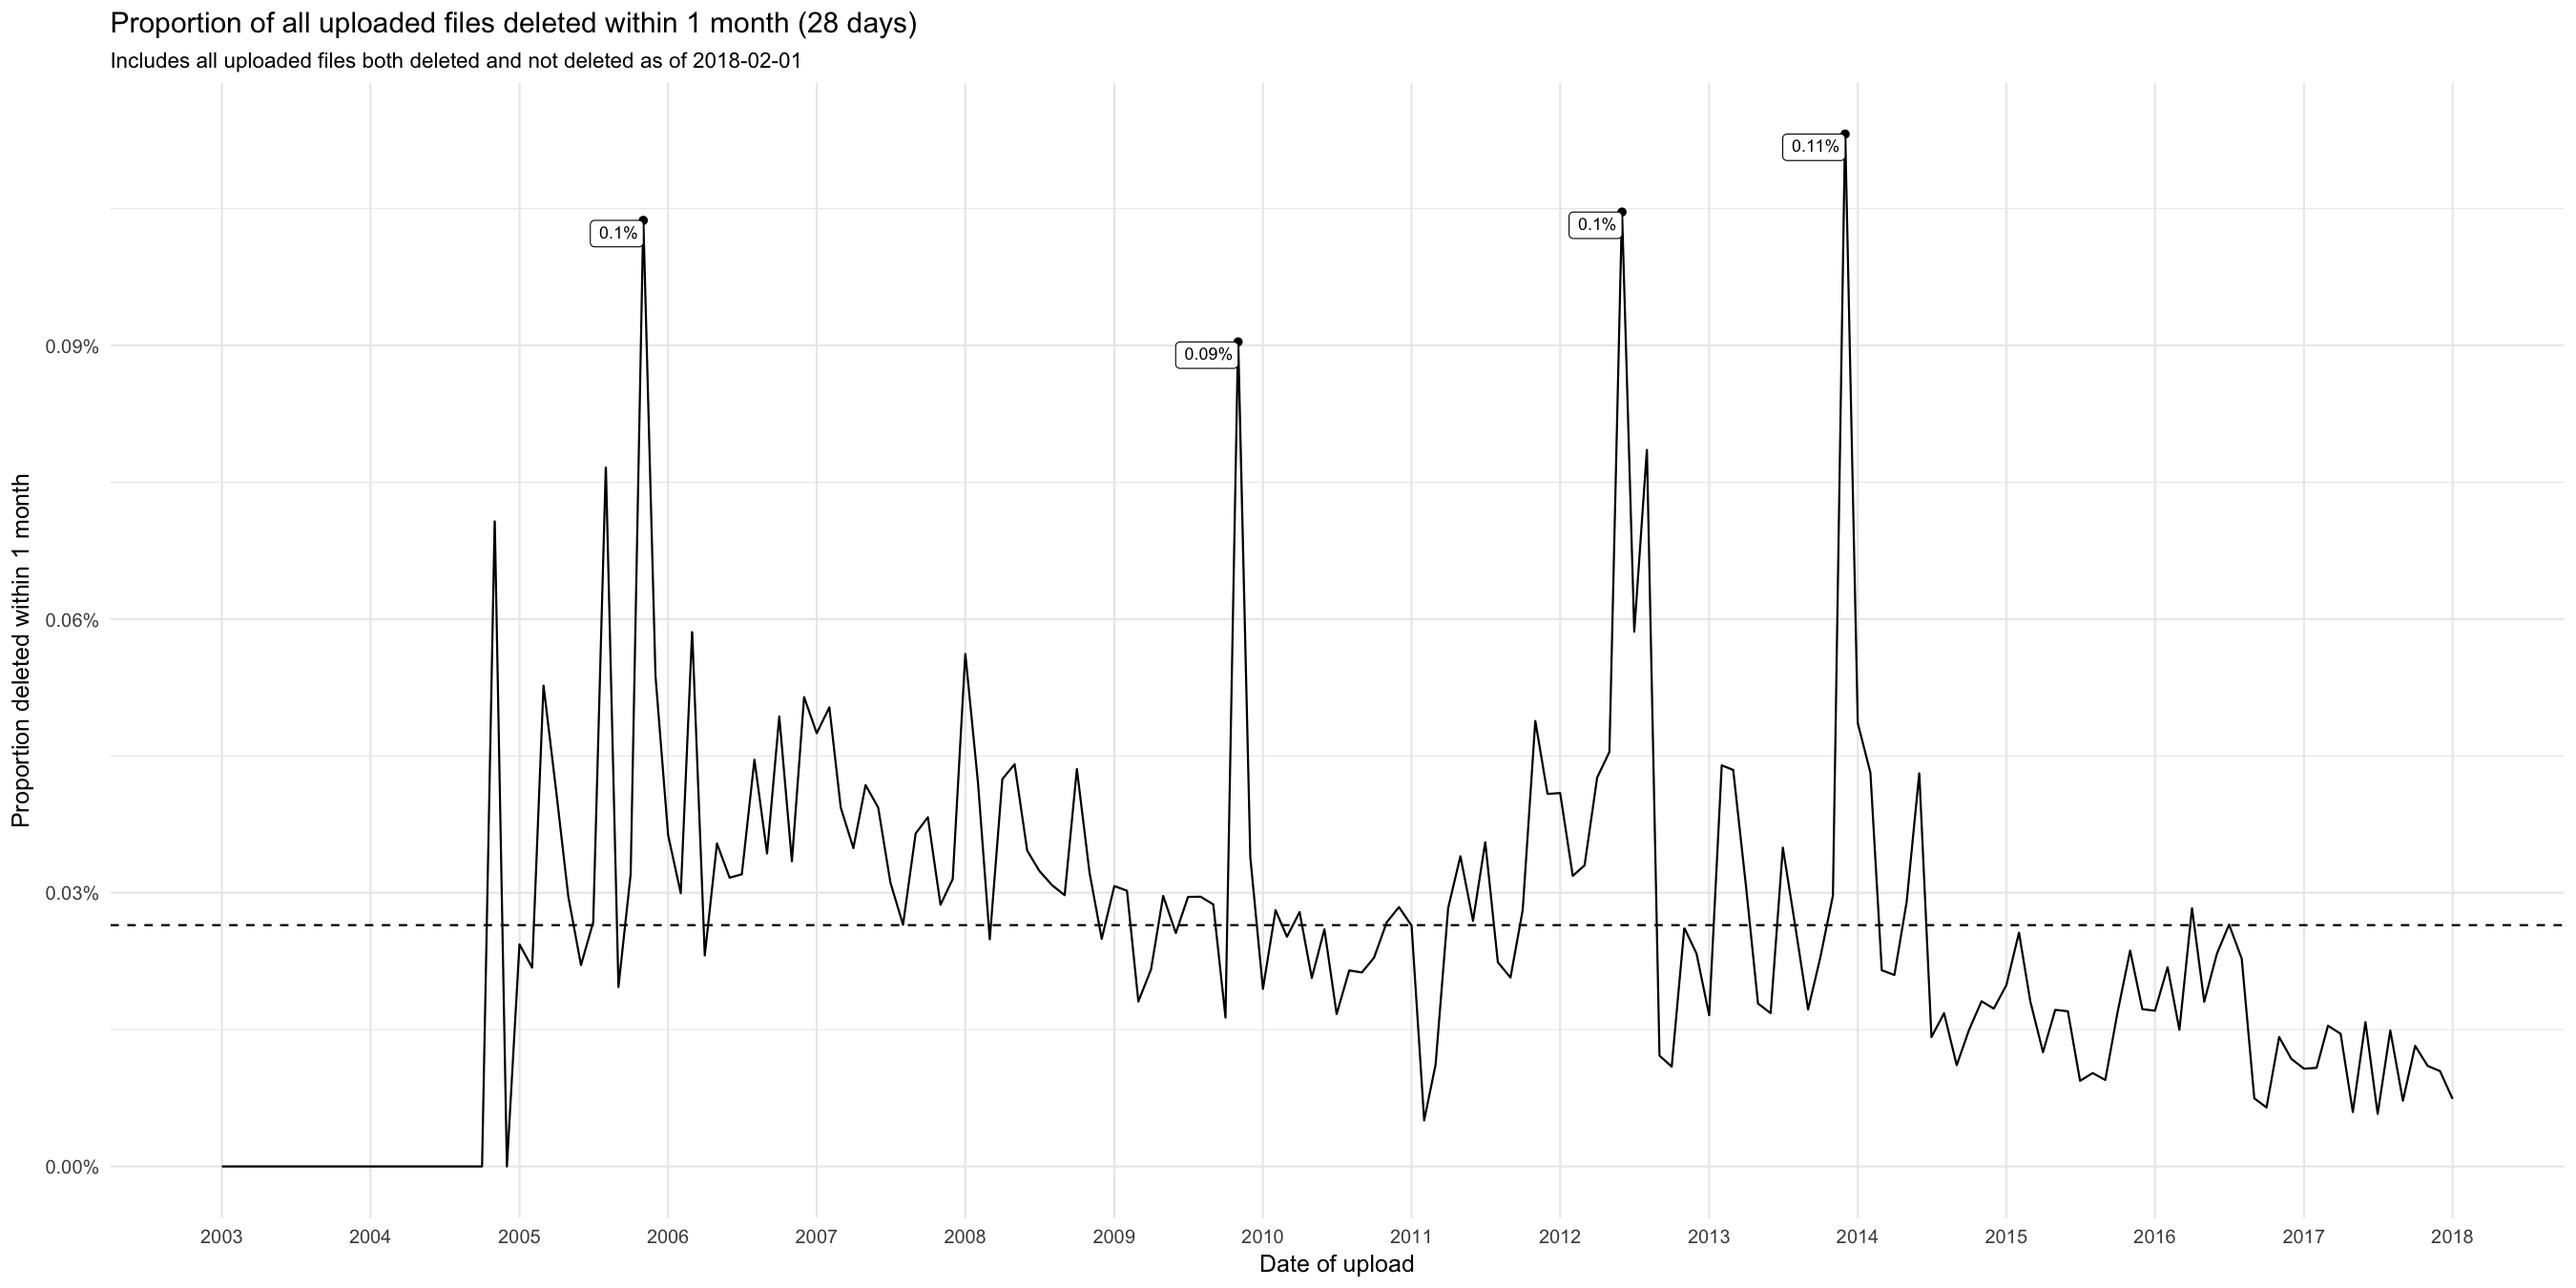
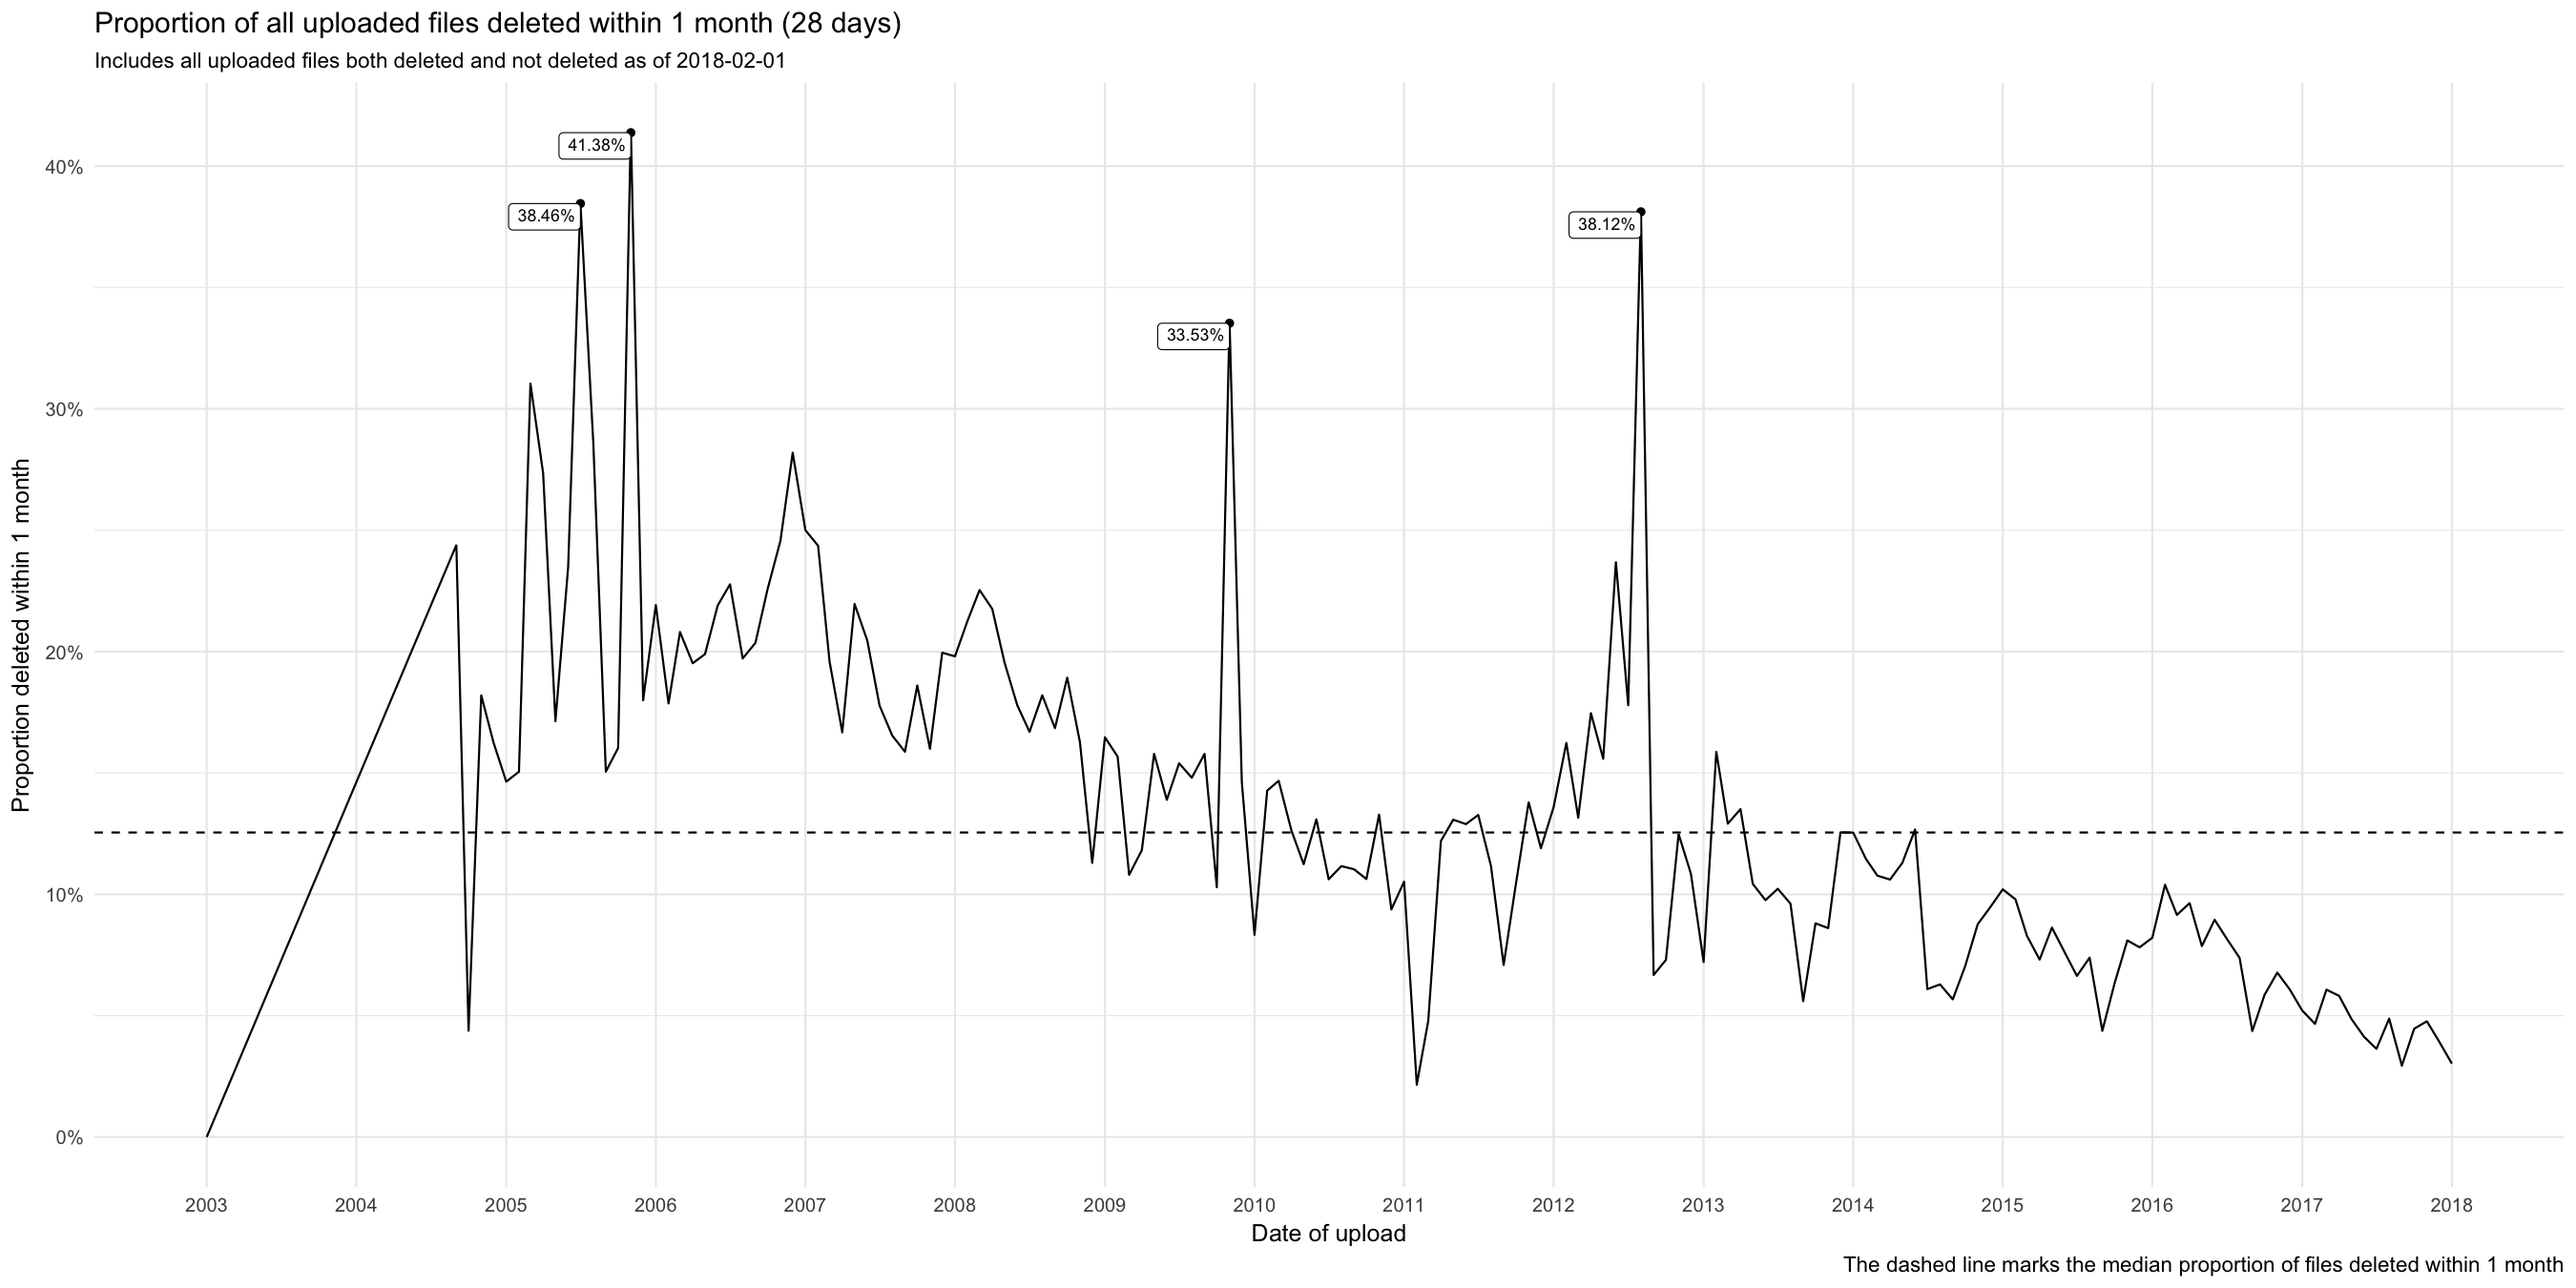
updates to T186575

diff --git a/T186575/README.md b/T186575/README.md
@@ -68,7 +68,7 @@ As indicated in the Oct 2017 report, most copyright-related deletions happen wit
 
 ### The proportion of files deleted within a month after uploaded. How does this deletion rate look like over time?
 
-I aslo reviewed the proportion of files deleted within a month (28 days) after upload date, querying both the image and file archive tables to obtain all uploads each month (both deleted and not deleted before 2018-02-01). The average proportion of all uploaded files per month deleted within 28 days after upload is about 0.03% each month. The highest proportion of deletions within a month occurred in December 2013 (1.1%). Between January 2014 to January 2018, there has been a decrease in the  proportion of deletions within a month after upload.
+I aslo reviewed the proportion of uploaded files deleted within a month (28 days) after upload date, querying both the image and file archive tables to obtain all uploads each month (both deleted and not deleted before 2018-02-01). An average of 13.3% of all uploaded files per month are deleted within 28 days after upload. The highest proportion of deletions within a month occurred in Novomber 2004 (41.38). From about 2013 to 2018, there has been an overall decrease in the proportion of deletions within a month after upload.
 
 
 
@@ -83,5 +83,9 @@ Note: These plots only reflect only files deleted before 2018-02-01 and the tren
 ![](file_deletion_time/figures/monthly_deletions_bytype.png)
 
 ![](file_deletion_time/figures/monthly_deletions_alldel.png)
+
+## Next Steps ##
+1. Calculate and plot the CI (confidence interval or credible interval) band of the line for plots of proportion of files deleted within a month (28 days)
+2. Might be interesting to review deletions broken down by bots vs users.
 
 
